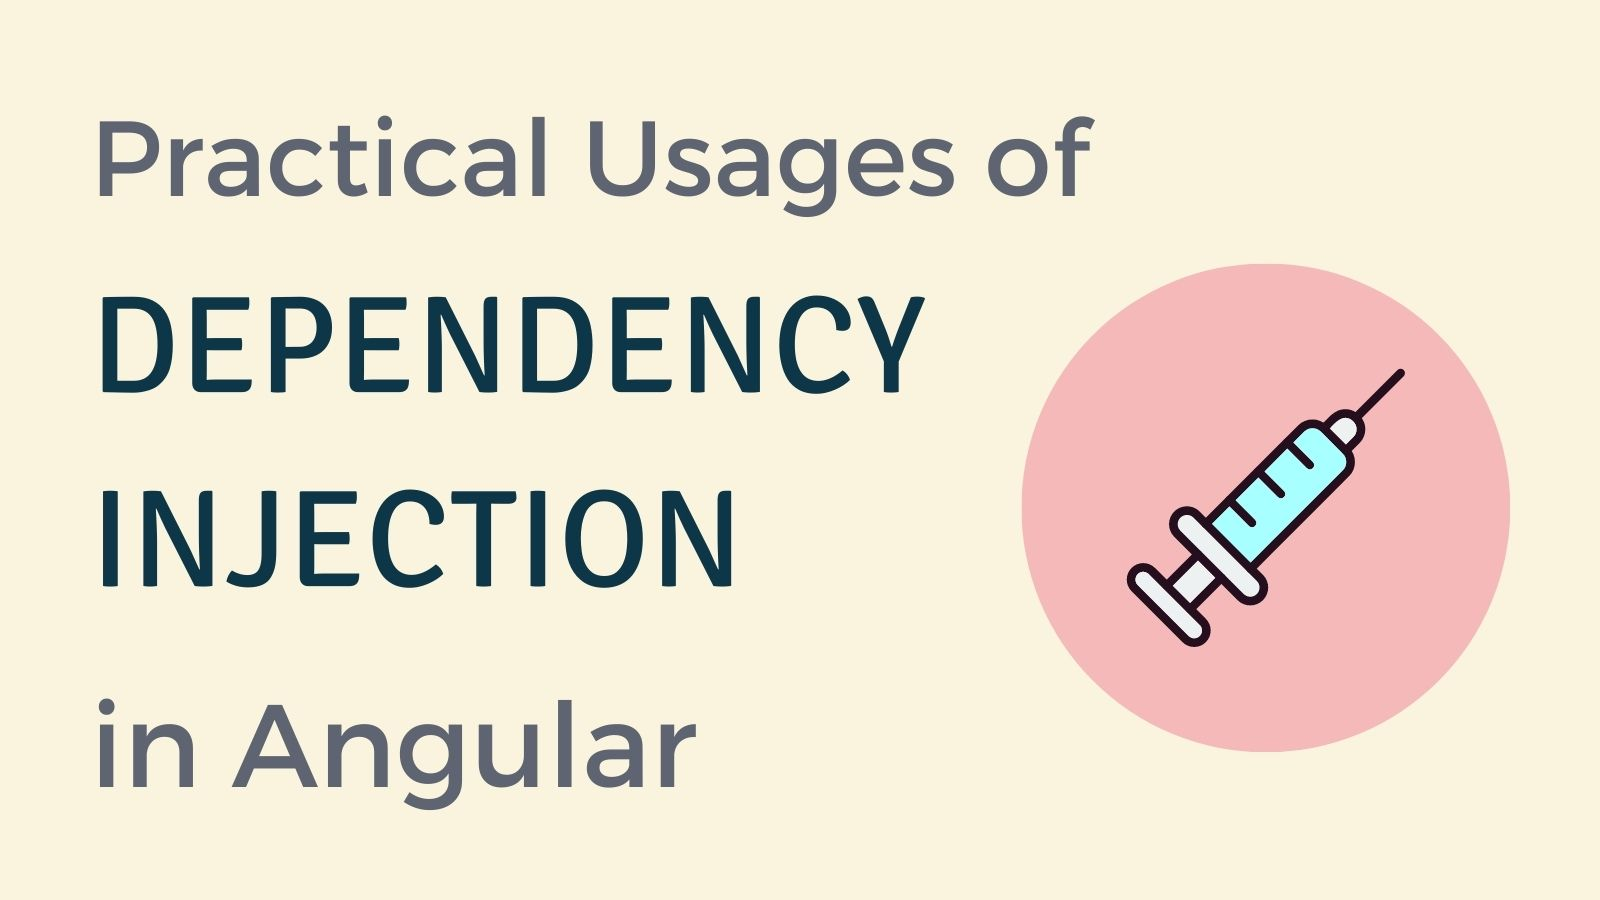
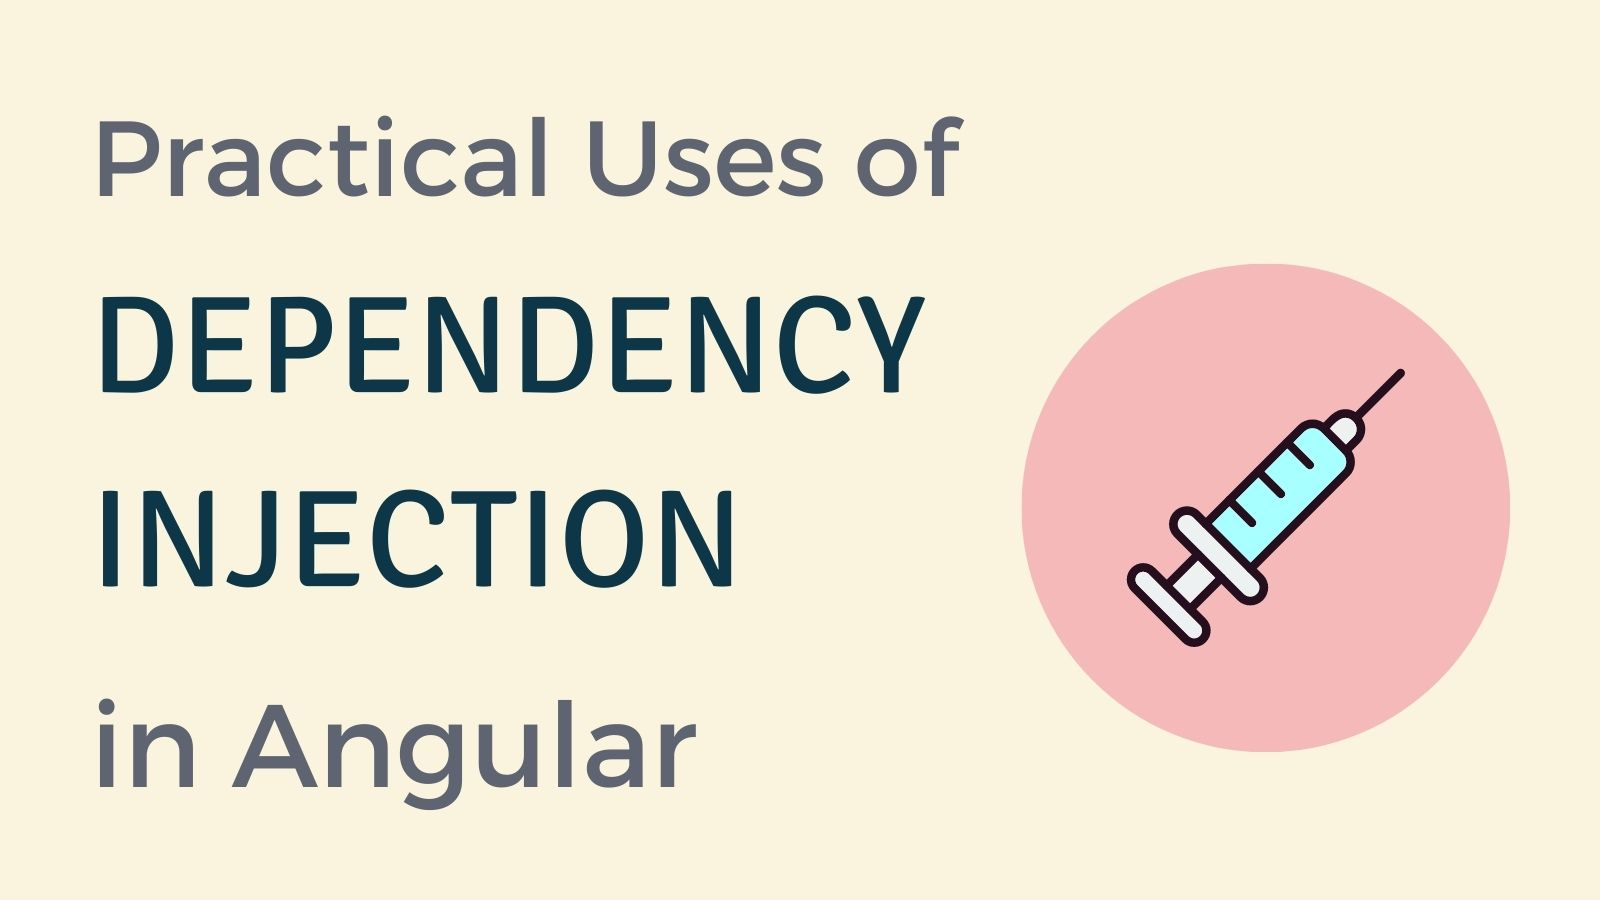
review updates

Changed region(s): [[0.4375, 0.1244, 0.6875, 0.2489]]

diff --git a/_source/_posts/2022-10-11-angular-dependency-injection.md b/_source/_posts/2022-10-11-angular-dependency-injection.md
@@ -1,6 +1,6 @@
 ---
 layout: blog_post
-title: "Practical Usages of Dependency Injection in Angular"
+title: "Practical Uses of Dependency Injection in Angular"
 author: alisa-duncan
 by: advocate
 communities: [javascript]
